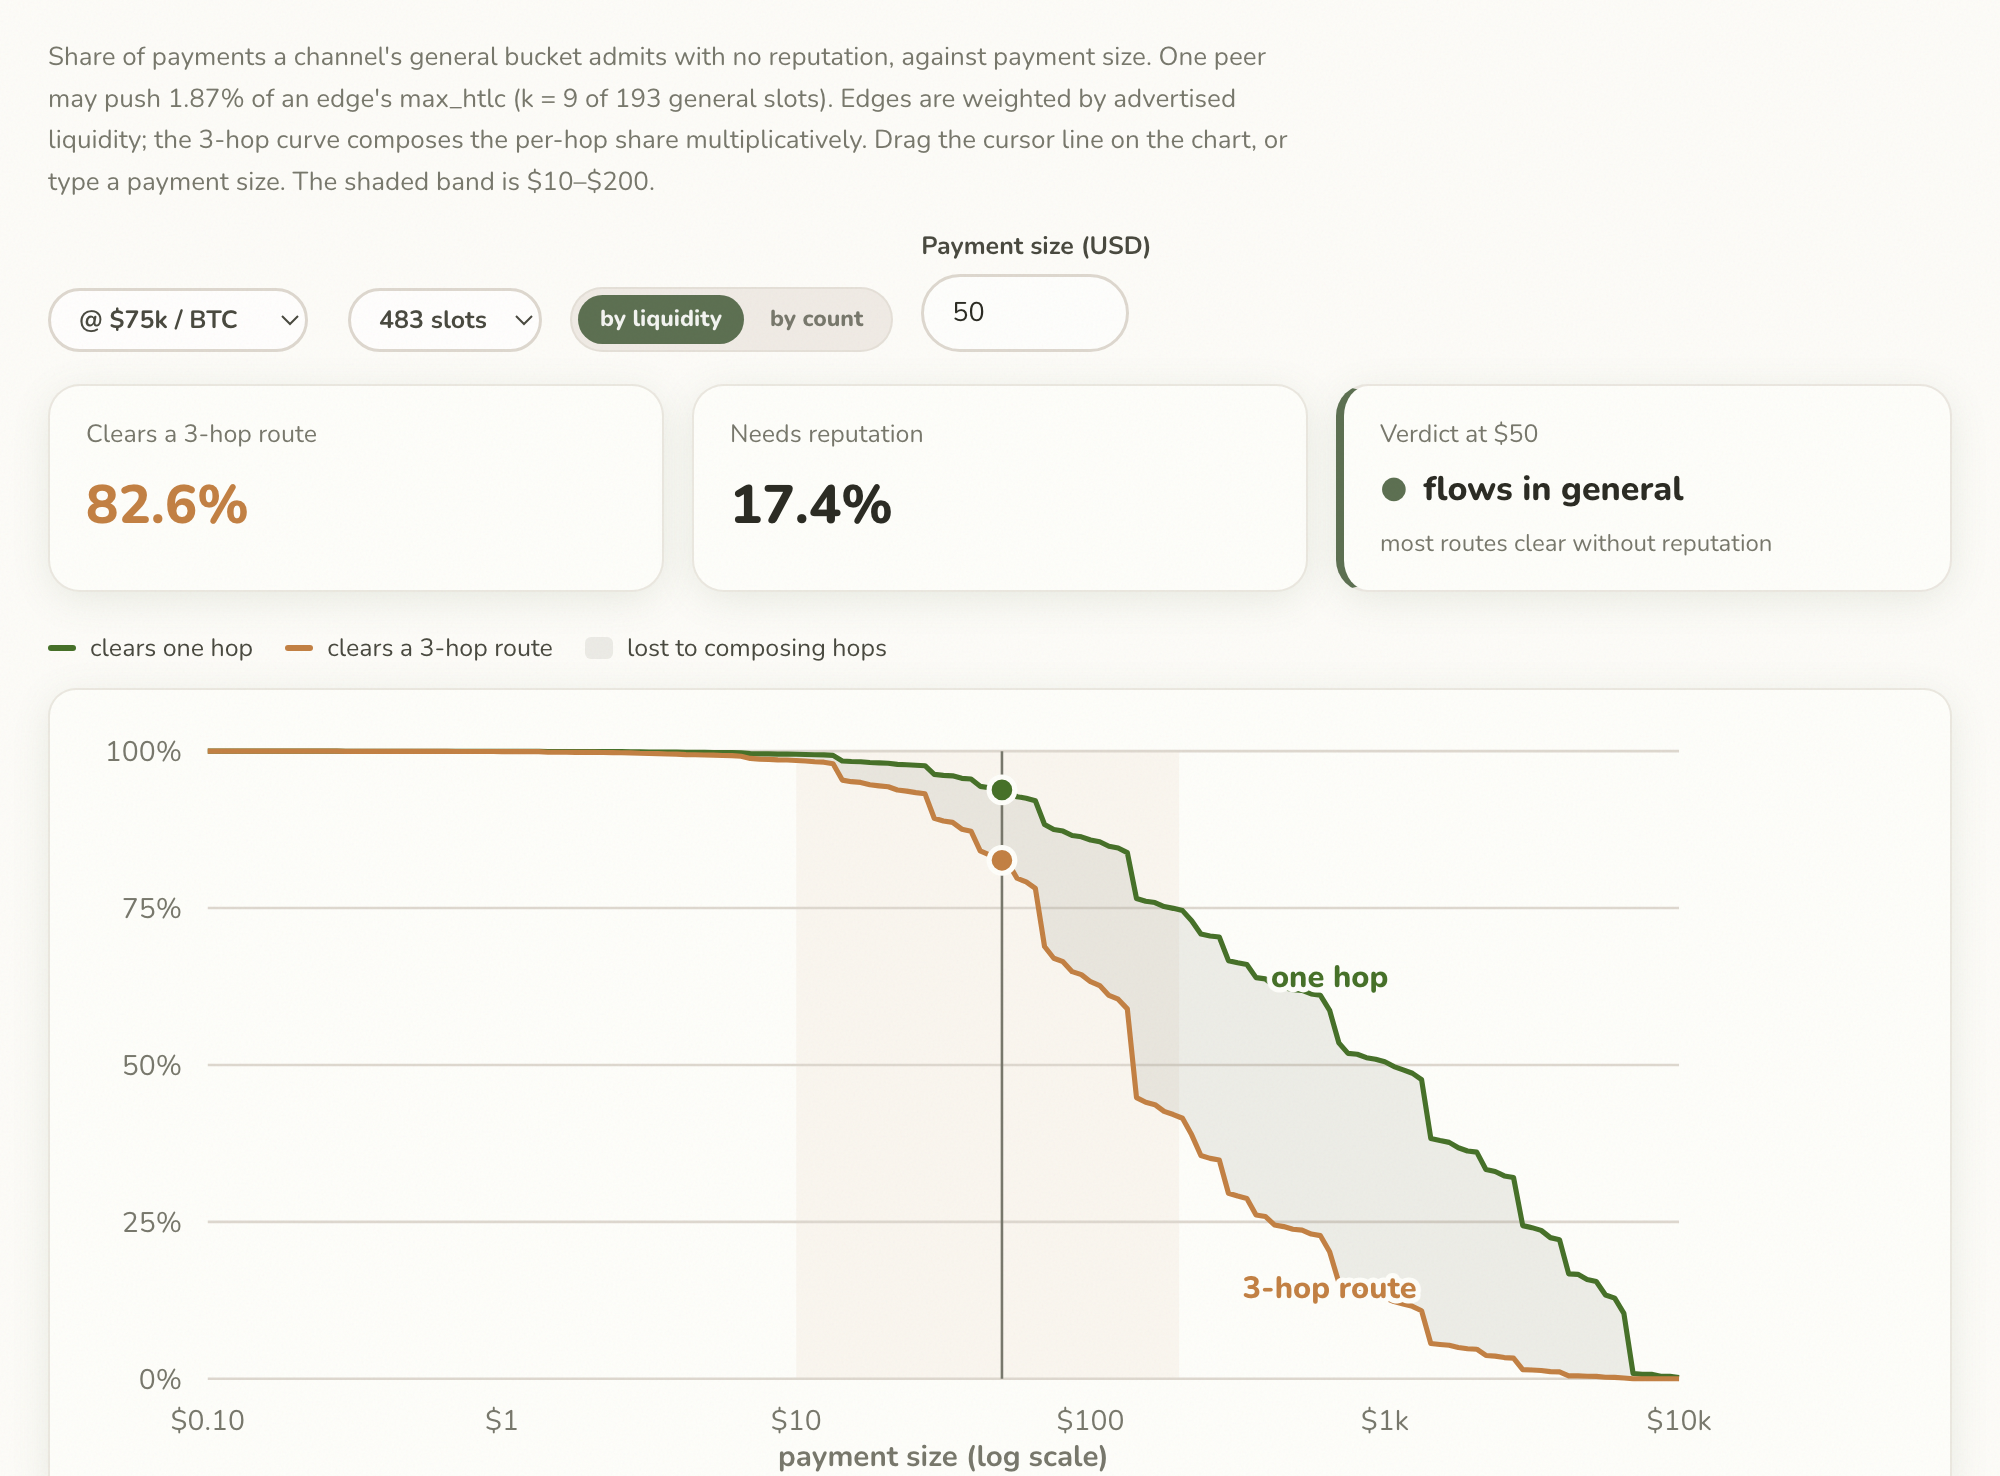
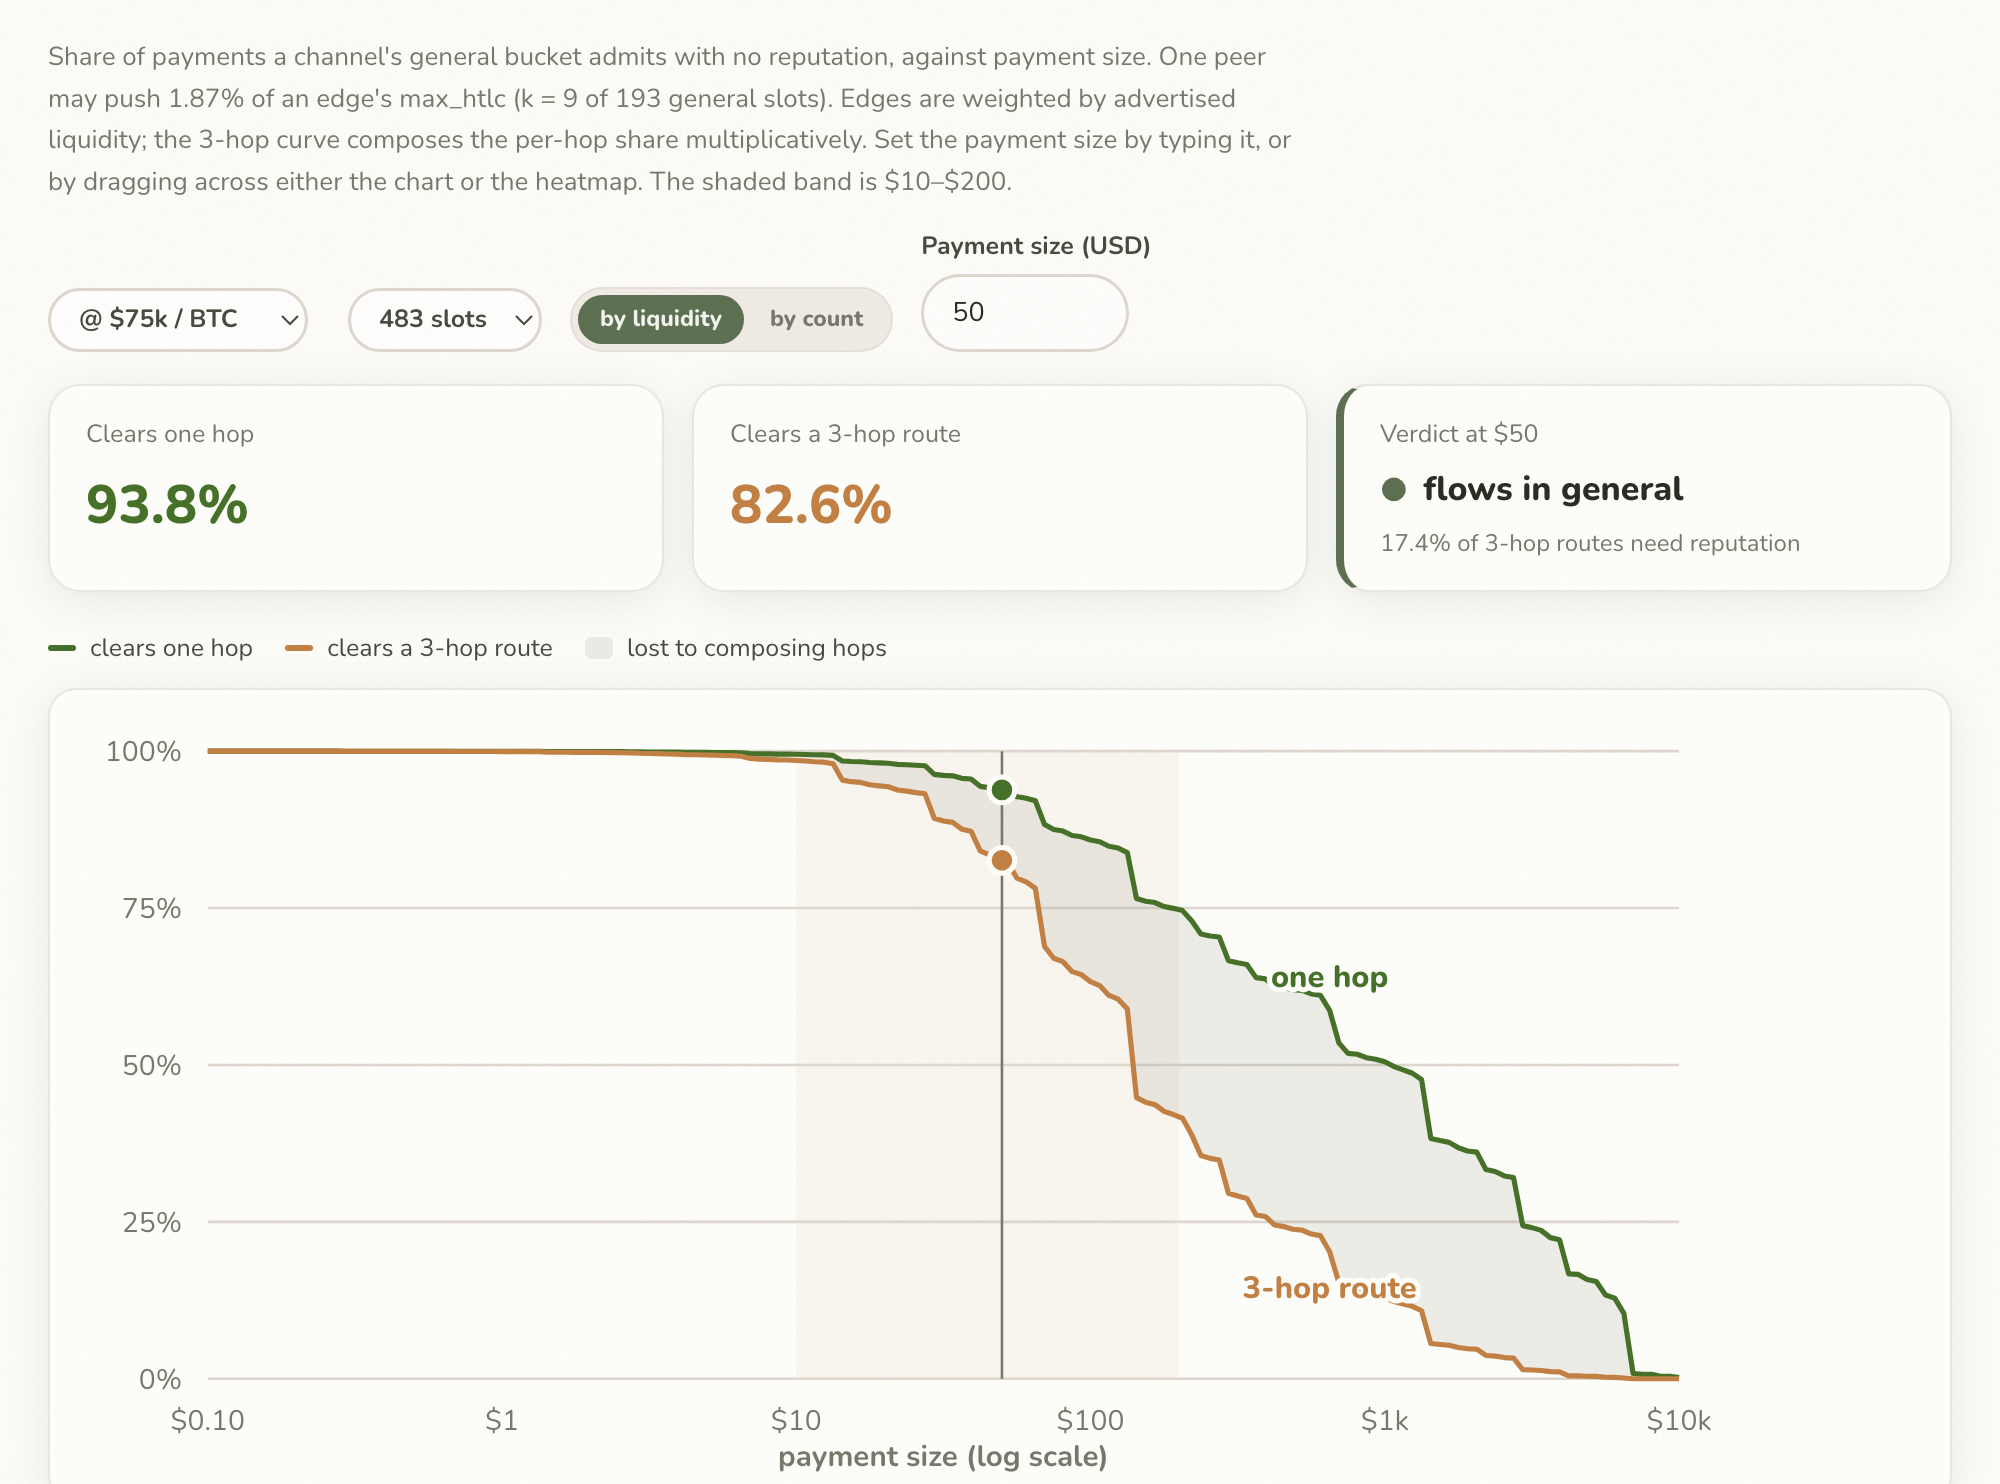
Restore both routability tiles and make the heatmap draggable
"Clears one hop" is back alongside "clears a 3-hop route". The dedicated
"needs reputation" tile goes away; the verdict block carries that figure
instead, stating the percentage rather than characterising it -- "17.4%
of 3-hop routes need reputation" in place of "most routes clear without
reputation". The verdict entries keep only their glyph and label, since
the note is now computed.

The heatmap sweeps the payment size too: one overlay across the grid
carries both the per-cell tooltip and the drag, the same shape the chart
uses, so pressing anywhere on the squares and dragging moves the cursor.

Fixed a mapping bug found while wiring that up. Cells tile the axis in
equal slices, but each column took its payment size from
i/(HEAT_COLS-1), which is the position of a fencepost rather than of a
bin. The two disagreed by up to a full cell at the right-hand end, so
the outlined column drifted away from the chart's cursor line and the
decade labels sat off their columns. Columns now take the payment size
at their bin midpoint.

Verified by dragging on the heatmap in a browser: $500 gives 62.0% for
one hop and 23.8% for a 3-hop route, matching that row of the
command-line table.

diff --git a/routability.js b/routability.js
@@ -124,12 +124,9 @@
   // Reserved status states, always shipped with a glyph and a word so the
   // reading never rests on colour alone.
   const VERDICTS = [
-    { min: 0.6, key: "good", glyph: "●", label: "flows in general",
-      note: "most routes clear without reputation" },
-    { min: 0.2, key: "warning", glyph: "◐", label: "partly reputation-gated",
-      note: "a large minority of routes need reputation" },
-    { min: 0, key: "critical", glyph: "▲", label: "mostly needs reputation",
-      note: "the general bucket rarely carries a whole route" },
+    { min: 0.6, key: "good", glyph: "●", label: "flows in general" },
+    { min: 0.2, key: "warning", glyph: "◐", label: "partly reputation-gated" },
+    { min: 0, key: "critical", glyph: "▲", label: "mostly needs reputation" },
   ];
   const verdictFor = (routeShare) => VERDICTS.find((v) => routeShare >= v.min);
 
@@ -317,10 +314,8 @@
       refs.routeDot.setAttribute("cy", yOf(route));
     }
     if (refs.heatBox) {
-      const ci = Math.round(
-        (Math.log10(state.payUsd / USD_MIN) / 5) * (HEAT_COLS - 1));
       refs.heatBox.setAttribute("x",
-        HPAD.left + ci * refs.heatCellW - 2);
+        HPAD.left + heatIndex(state.payUsd) * refs.heatCellW - 2);
     }
     if (refs.payInput && document.activeElement !== refs.payInput) {
       refs.payInput.value = roundForInput(state.payUsd);
@@ -340,10 +335,17 @@
   const rampIndex = (share) => Math.min(RAMP.length - 1,
     Math.max(0, Math.floor(share * RAMP.length)));
 
+  // Each column is a bin covering an equal slice of the log axis, represented
+  // by the payment size at its midpoint. Indexing by i/(HEAT_COLS-1) instead
+  // would drift the cells off the axis labels by up to a cell at the far end.
+  const heatFrac = (i) => (i + 0.5) / HEAT_COLS;
+  const heatIndex = (usd) => Math.min(HEAT_COLS - 1, Math.max(0,
+    Math.floor((Math.log10(usd / USD_MIN) / 5) * HEAT_COLS)));
+
   function heatColumns() {
     const cols = [];
     for (let i = 0; i < HEAT_COLS; i++) {
-      const usd = USD_MIN * Math.pow(10, (i / (HEAT_COLS - 1)) * 5);
+      const usd = USD_MIN * Math.pow(10, heatFrac(i) * 5);
       cols.push({ usd, hop: perHopAt(usd) });
     }
     return cols;
@@ -373,27 +375,53 @@
       cols.forEach((c, i) => {
         const share = M.routeRoutability(c.hop, h);
         // 2px surface gap between cells instead of a border.
-        const cell = svg("rect", {
+        node.appendChild(svg("rect", {
           x: HPAD.left + i * cellW + 1, y: y + 1,
           width: Math.max(1, cellW - 2), height: HROW - 2,
           fill: RAMP[rampIndex(share)], rx: 3,
-        });
-        cell.addEventListener("pointerenter", (e) =>
-          showHeatTip(c.usd, h, share, e));
-        node.appendChild(cell);
+        }));
       });
     });
 
     // Cursor column outline goes on last, so the cells don't cover it.
-    const ci = Math.round((Math.log10(state.payUsd / USD_MIN) / 5) * (HEAT_COLS - 1));
     refs.heatCellW = cellW;
     refs.heatBox = svg("rect", {
-      x: HPAD.left + ci * cellW - 2, y: HPAD.top - 4,
+      x: HPAD.left + heatIndex(state.payUsd) * cellW - 2, y: HPAD.top - 4,
       width: cellW + 4, height: HEAT_HOPS.length * HROW + 8,
       fill: "none", stroke: "#4A4A40", "stroke-width": 1.5, rx: 6,
       "pointer-events": "none",
     });
     node.appendChild(refs.heatBox);
+
+    // One overlay across the grid, as on the chart: it carries both the
+    // per-cell tooltip and the drag, so the payment size can be swept here too.
+    const gridH = HEAT_HOPS.length * HROW;
+    const overlay = svg("rect", {
+      x: HPAD.left, y: HPAD.top, width: plotW, height: gridH,
+      fill: "transparent", class: "chart-overlay",
+    });
+    const usdAt = (clientX) => {
+      const box = node.getBoundingClientRect();
+      const px = ((clientX - box.left) / box.width) * HW;   // viewBox units
+      return clampUsd(USD_MIN * Math.pow(10, ((px - HPAD.left) / plotW) * 5));
+    };
+    overlay.addEventListener("pointermove", (e) => {
+      if (dragging) return;
+      const box = node.getBoundingClientRect();
+      const py = ((e.clientY - box.top) / box.height) * height;
+      const r = Math.min(HEAT_HOPS.length - 1,
+        Math.max(0, Math.floor((py - HPAD.top) / HROW)));
+      const c = cols[heatIndex(usdAt(e.clientX))];
+      showHeatTip(c.usd, HEAT_HOPS[r],
+        M.routeRoutability(c.hop, HEAT_HOPS[r]), e);
+    });
+    overlay.addEventListener("pointerdown", (e) => {
+      e.preventDefault();
+      hideTip();
+      startDrag(usdAt);
+      setPayment(usdAt(e.clientX));
+    });
+    node.appendChild(overlay);
 
     for (const d of DECADES) {
       const frac = Math.log10(d / USD_MIN) / 5;
@@ -402,7 +430,7 @@
         "text-anchor": "middle", class: "chart-tick",
       }, fmtUsd(d)));
     }
-    node.addEventListener("pointerleave", hideTip);
+    node.addEventListener("pointerleave", () => { if (!dragging) hideTip(); });
     return node;
   }
 
@@ -551,7 +579,8 @@
   // ---------------- tiles ----------------
 
   function renderTiles() {
-    const route = M.routeRoutability(perHopAt(state.payUsd), ROUTE_HOPS);
+    const hop = perHopAt(state.payUsd);
+    const route = M.routeRoutability(hop, ROUTE_HOPS);
     const v = verdictFor(route);
     const row = el("div", "tile-row");
 
@@ -564,11 +593,9 @@
       return t;
     };
 
-    // The per-hop figure is on the chart but not here: it overstates what a
-    // payment can actually do, so it makes a poor headline number.
+    row.appendChild(tile("Clears one hop", fmtPct1(hop), SERIES.hop));
     row.appendChild(tile("Clears a " + ROUTE_HOPS + "-hop route",
       fmtPct1(route), SERIES.route));
-    row.appendChild(tile("Needs reputation", fmtPct1(1 - route)));
 
     const verdict = el("div", "tile tile-verdict verdict-" + v.key);
     verdict.appendChild(el("div", "tile-label", "Verdict at " + fmtUsd(state.payUsd)));
@@ -576,7 +603,9 @@
     line.appendChild(el("span", "verdict-glyph", v.glyph));
     line.appendChild(el("span", "verdict-label", v.label));
     verdict.appendChild(line);
-    verdict.appendChild(el("div", "tile-note", v.note));
+    // The complement of the route figure, stated rather than characterised.
+    verdict.appendChild(el("div", "tile-note",
+      fmtPct1(1 - route) + " of " + ROUTE_HOPS + "-hop routes need reputation"));
     row.appendChild(verdict);
 
     return row;
@@ -596,8 +625,9 @@
       m.k + " of " + m.slots.general + " general slots). Edges are weighted " +
       (state.weighting === "value" ? "by advertised liquidity" : "one edge, one vote") +
       "; the " + ROUTE_HOPS + "-hop curve composes the per-hop share " +
-      "multiplicatively. Drag the cursor line on the chart, or type a payment " +
-      "size. The shaded band is $" + TYPICAL[0] + "–$" + TYPICAL[1] + ".";
+      "multiplicatively. Set the payment size by typing it, or by dragging " +
+      "across either the chart or the heatmap. The shaded band is $" +
+      TYPICAL[0] + "–$" + TYPICAL[1] + ".";
 
     $("rout-controls-slot").replaceChildren(renderControls());
     $("rout-tiles").replaceChildren(renderTiles());

diff --git a/index.html b/index.html
@@ -101,8 +101,8 @@
       <div class="chart-card" id="rout-chart"></div>
       <p class="table-caption">
         Routability by payment size and hop count. Darker means more of the
-        payment flow stays in the general bucket; the outlined column is the
-        payment size selected above.
+        payment flow stays in the general bucket. The outlined column is the
+        selected payment size — drag across the squares to move it.
       </p>
       <div id="rout-heat-legend"></div>
       <div class="chart-card" id="rout-heat"></div>

diff --git a/README.md b/README.md
@@ -63,7 +63,7 @@ exits non-zero on the command line.
   shaded on the chart — is what composing hops costs you. A heatmap sweeps one
   to six hops, and the weighting toggle switches between counting edges and
   weighting them by advertised liquidity. Set the payment size by typing it or
-  by dragging the cursor line across the chart; the shaded band marks the
+  by dragging across either the chart or the heatmap; the shaded band marks the
   $10–$200 range where everyday payments sit.
 
 At the defaults, a $50 payment at $75k/BTC clears one hop 93.8% of the time
